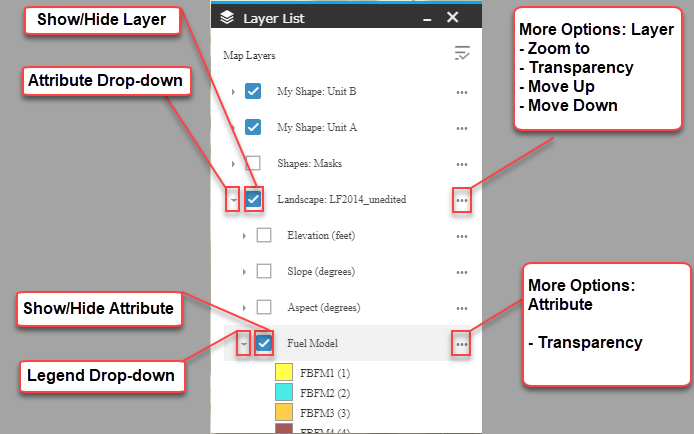
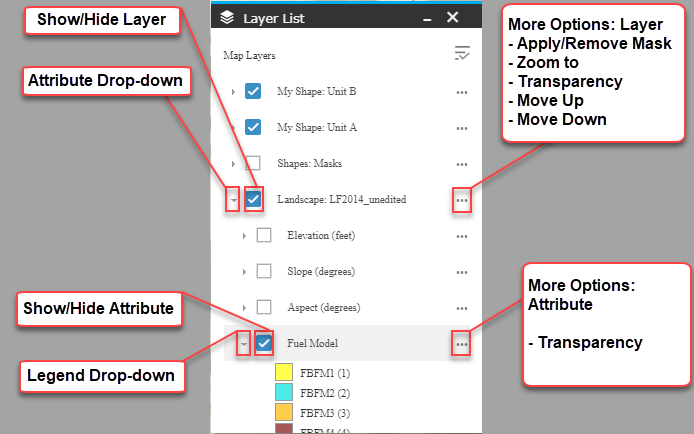
updates lbp about and lcp pages

Changed region(s): [[0.696, 0.0, 0.9986, 0.3594]]

diff --git a/Content/20-Models/LBP/About.htm b/Content/20-Models/LBP/About.htm
@@ -5,14 +5,15 @@
     </head>
     <body>
         <h1>About Landscape Burn Probability<MadCap:snippetText src="../../Resources/Snippets/Development.flsnp" /> </h1>
-        <p class="comment" MadCap:conditions="General.Exclude">LAST UPDATED 05-02-2019 1438</p>
+        <p class="comment" MadCap:conditions="General.Exclude">LAST UPDATED 05-15-2019 1401</p>
         <div class="notificationComingSoon">
             <p>
-                <MadCap:conditionalText MadCap:conditions="General.Prod ONLY"><b>April 2019 - Landscape Burn Probability is coming soon, it is not yet available in IFTDSS. </b> LBP will be the first in a series of version updates in 2019 that will conclude with a framework to conduct a full <a href="../../30-Tasks/QWFRA/RiskAssessment.htm" target="_blank">Quantitative Wildland Fire Risk Assessment</a>.</MadCap:conditionalText>
-                <MadCap:conditionalText MadCap:conditions="General.QA ONLY"> IFTDSS Landscape Burn Probability is an independent model in Playground. It is the first in a series of version updates in 2019 that will conclude with a framework to conduct a full <a href="../../30-Tasks/QWFRA/RiskAssessment.htm" target="_blank">Quantitative Wildland Fire Risk Assessment</a>.</MadCap:conditionalText>
+                <MadCap:conditionalText MadCap:conditions="General.Prod ONLY"><b>April 2019 - Landscape Burn Probability is coming soon, it is not yet available in IFTDSS. </b> LBP will be the first in a series of version updates in 2019 that will conclude with a framework to conduct a full <a href="../../30-Tasks/QWFRA/QWFRAAbout.htm" target="_blank">Quantitative Wildland Fire Risk Assessment</a>.</MadCap:conditionalText>
+                <MadCap:conditionalText MadCap:conditions="General.QA ONLY"> IFTDSS Landscape Burn Probability is an independent model in Playground. The model is the foundation of the <a href="../../30-Tasks/QWFRA/QWFRAAbout.htm" target="_blank">Quantitative Wildfire Risk Assessment</a> process (<a href="../../41-References/Citations.htm#Scott_etal_2013" target="_blank">Scott and others 2013</a>) that will be released incrementally throughout 2019. </MadCap:conditionalText>
             </p>
         </div>
-        <p>Landscape Burn Probability (LBP) quantifies the likelihood of fire occurring and the intensity at which fire occurs, it is part of the wildfire risk assessment process (<a href="../../41-References/Citations.htm#Scott_etal_2013" target="_blank">Scott and others 2013</a>). Outputs can be utilized as an independent product or be combined with information on the fire susceptibility of resources and assets to perform a more thorough integrated hazard or quantitative wildfire risk assessment. IFTDSS <a href="Out/Overview.htm" target="_blank">LBP model outputs</a> include burn probability, conditional flame length, and integrated hazard.</p>
+        <p>Landscape Burn Probability (LBP) quantifies the relative likelihood and intensity of a fire occurring under a fixed set of weather and fuel moisture conditions. Outputs include burn probability, conditional flame length and integrated hazard.  Outputs can be utilized as an independent product or be combined with information on the fire susceptibility of highly valued resources and assets.</p>
+        <p>The LBP model is not as widely known as the more common fire spread models so it may be new to you; please read the <a href="RunConsiderations.htm" target="_blank">Modeling Considerations</a> section to better understand how to use and apply this model to your work.</p>
         <p>
             <img src="../../Resources/Images/Models/LBP/Integrated_Hazard_diagram.png" class="border" />
         </p>
@@ -22,17 +23,17 @@
             </MadCap:dropDownHead>
             <MadCap:dropDownBody>
                 <h2>Burn Probability</h2>
-                <p>Quantifies the likelihood of a fire occurring under a fixed set of weather and fuel moisture conditions.</p>
+                <p><a href="Out/BurnProb.htm" target="_blank">Burn Probability</a> quantifies the likelihood of a fire occurring under a fixed set of weather and fuel moisture conditions.</p>
                 <p>
                     <img src="../../Resources/Images/Models/LBP/AboutLBP_LBP.png" class="border" />
                 </p>
                 <h2>Conditional Flame Length</h2>
-                <p>An estimate of the average flame length for all the fires that burn a given point on the landscape under a fixed set of weather and fuel moisture conditions.</p>
+                <p><a href="Out/ConditionalFL.htm" target="_blank">Conditional Flame Length</a> is an estimate of the average flame length for all the fires that burn a given point on the landscape under a fixed set of weather and fuel moisture conditions.</p>
                 <p src="../../Resources/Images/Models/LBP/AboutLBP_CFL.png">
                     <img src="../../Resources/Images/Models/LBP/AboutLBP_CFL.png" class="border" />
                 </p>
                 <h2>Integrated Hazard</h2>
-                <p>Combines two LBP model outputs—burn probability and conditional flame length—into a single characteristic that can be mapped.</p>
+                <p><a href="Out/IntHazard.htm" target="_blank">Integrated Hazard</a> combines two of the  LBP model outputs—burn probability and conditional flame length—into a single characteristic that can be mapped. In IFTDSS, we use the matrix below to map integrated hazard.</p>
                 <p>
                     <img src="../../Resources/Images/Models/LBP/IH_example_w_table.png" alt="integrated hazard in Map Studio" class="border" />
                 </p>
@@ -43,8 +44,10 @@
                 <MadCap:dropDownHotspot>Modeling Landscape Burn Probability versus Landscape Fire Behavior</MadCap:dropDownHotspot>
             </MadCap:dropDownHead>
             <MadCap:dropDownBody>
-                <p>Landscape Burn Probability is different from the Landscape Fire Behavior model founds elsewhere in IFTDSS. Here is a brief outline of those differences, highlight in more detail in a <a href="LBPvLFB.htm" target="_blank">separate topic page</a>:</p>
-                <p>Whether you choose to run Landscape Burn Probability or Landscape Fire Behavior will depend upon the questions you are trying to answer. As sown in the table below, some questions are better addressed by one model, others are answered by both models.</p>
+                <div class="notificationNote">
+                    <p>This is brief summary of the larger <a href="LBPvLFB.htm" target="_blank">Fire Behavior Model Comparison</a> topic.</p>
+                </div>
+                <p>Whether you choose to run Landscape Burn Probability (LBP) or Landscape Fire Behavior (LFB) will depend upon the questions you are trying to answer. See the table below for examples of questions that can be answered by one or both of the models.</p>
                 <table style="width: 100%;mc-table-style: url('../../Resources/TableStylesheets/Standard.css');" class="TableStyle-Standard" cellspacing="3">
                     <col class="TableStyle-Standard-Column-Column1" style="width: 400px;" />
                     <col class="TableStyle-Standard-Column-Column1" />
@@ -56,32 +59,50 @@
                     </thead>
                     <tbody>
                         <tr class="TableStyle-Standard-Body-Body1">
-                            <td class="TableStyle-Standard-BodyE-Column1-Body1">Models head, flanking and backing fire</td>
-                            <td class="TableStyle-Standard-BodyD-Column1-Body1">Only models head fire</td>
+                            <td class="TableStyle-Standard-BodyE-Column1-Body1">Which areas on the landscape are more likely to burn than others?</td>
+                            <td class="TableStyle-Standard-BodyD-Column1-Body1">Which areas on the landscape are more likely to experience crown fire vs. surface fire?</td>
                         </tr>
                         <tr class="TableStyle-Standard-Body-Body2">
-                            <td class="TableStyle-Standard-BodyE-Column1-Body2">Fire spread is modeled across pixels based on Minimum Travel Time algorithm</td>
-                            <td class="TableStyle-Standard-BodyD-Column1-Body2">Fire behavior calculated independently for each pixel</td>
+                            <td class="TableStyle-Standard-BodyE-Column1-Body2">How likely is my ownership to burn as compared to likelihood on  immediately adjacent ownerships and inholdings?</td>
+                            <td class="TableStyle-Standard-BodyD-Column1-Body2">Which areas have fuels that result in the fastest spreading fires?</td>
                         </tr>
                         <tr class="TableStyle-Standard-Body-Body1">
-                            <td class="TableStyle-Standard-BodyE-Column1-Body1">probabilistic - randomness in ignitions and spotting means results may vary slightly given the same inputs.</td>
-                            <td class="TableStyle-Standard-BodyD-Column1-Body1">deterministic - same inputs will always yield the same outputs</td>
+                            <td class="TableStyle-Standard-BodyD-Column1-Body1" colspan="2">Which areas will burn with the highest intensity and severity?</td>
                         </tr>
                         <tr class="TableStyle-Standard-Body-Body2">
-                            <td class="TableStyle-Standard-BodyB-Column1-Body2">Outputs depend on the scale of the landscape</td>
-                            <td class="TableStyle-Standard-BodyA-Column1-Body2">Landscape scale does not change affect outputs.</td>
+                            <td class="TableStyle-Standard-BodyA-Column1-Body2" colspan="2">Which areas on this landscape would benefit from treatments with objectives of reducing fire intensity in areas that are most likely to burn?</td>
                         </tr>
                     </tbody>
                 </table>
                 <p>The two models also approach fire behavior modeling differently. Landscape Fire Behavior models head fire only and each pixel is assigned fire spread independently. This results in higher fire intensity. Landscape Burn Probability takes into account heading, backing and flanking fire, as well as the influence of neighboring pixels which can result in lower intensity.</p>
-                <p>The LBP model outputs differ from LFB model outputs in a number of ways:</p>
-                <ul>
-                    <li>LFB outputs are deterministic - the same set of inputs will produce the same set of outputs each time.</li>
-                    <li>LBP outputs are probabilistic - the calculations include some randomization for ignitions and spotting.</li>
-                    <li>LBP outputs are specifically classified to describe the relative frequency at which different portions of the landscape would burn under a given set of conditions.</li>
-                    <li>LBP outputs are relative only to the geographic extent of a particular analysis.</li>
-                    <li>LBP conditional flame length is the mean of the full spectrum of heading, backing, and flanking simulated fires run in the LBP calculation.  LFB flame length for a given pixel is always the same value based on a single head fire calculation.</li>
-                </ul>
+                <table style="width: 100%;mc-table-style: url('../../Resources/TableStylesheets/Standard.css');" class="TableStyle-Standard" cellspacing="3">
+                    <col class="TableStyle-Standard-Column-Column1" style="width: 400px;" />
+                    <col class="TableStyle-Standard-Column-Column1" />
+                    <thead>
+                        <tr class="TableStyle-Standard-Head-Header1">
+                            <td class="TableStyle-Standard-HeadE-Column1-Header1" style="font-weight: bold;">Landscape Burn Probability</td>
+                            <td class="TableStyle-Standard-HeadD-Column1-Header1" style="font-weight: bold;">Landscape Fire&#160;Behavior</td>
+                        </tr>
+                    </thead>
+                    <tbody>
+                        <tr class="TableStyle-Standard-Body-Body1">
+                            <td class="TableStyle-Standard-BodyE-Column1-Body1">Probabilistic - randomness in ignitions and spotting means results may vary slightly given the same inputs.</td>
+                            <td class="TableStyle-Standard-BodyD-Column1-Body1">Deterministic - the same inputs will always yield the same outputs.</td>
+                        </tr>
+                        <tr class="TableStyle-Standard-Body-Body2">
+                            <td class="TableStyle-Standard-BodyE-Column1-Body2">Outputs are relative to the geographic extent of the landscape, they are <a href="Out/Scale.htm" target="_blank">uniquely scaled for each analysis or Area of Interest</a>.</td>
+                            <td class="TableStyle-Standard-BodyD-Column1-Body2">Changing landscape scale or masking outputs to an Area of Interest does not change model outputs.</td>
+                        </tr>
+                        <tr class="TableStyle-Standard-Body-Body1">
+                            <td class="TableStyle-Standard-BodyE-Column1-Body1">Models head, flanking and backing fire.</td>
+                            <td class="TableStyle-Standard-BodyD-Column1-Body1">Only models head fire.</td>
+                        </tr>
+                        <tr class="TableStyle-Standard-Body-Body2">
+                            <td class="TableStyle-Standard-BodyB-Column1-Body2">Fire spread is modeled across pixels based on Minimum Travel Time algorithm.</td>
+                            <td class="TableStyle-Standard-BodyA-Column1-Body2">Fire behavior calculated independently for each pixel.</td>
+                        </tr>
+                    </tbody>
+                </table>
             </MadCap:dropDownBody>
         </MadCap:dropDown>
         <MadCap:dropDown>
@@ -89,36 +110,48 @@
                 <MadCap:dropDownHotspot>Why Model LBP</MadCap:dropDownHotspot>
             </MadCap:dropDownHead>
             <MadCap:dropDownBody>
-                <p>The LBP model is a tool that is available to help address a variety of fuels planning and wildland fire response questions. IFTDSS maps and summary reports for this model may be helpful in the decision making process for treatment type, location, and prioritization, when conducting NEPA or other analyses.</p>
-                <p>Landscape Burn Probability can help answer questions like:</p>
+                <p>The Landscape Burn Probability model is a tool that is available to help address a variety of fuels planning and wildland fire management questions. IFTDSS maps and summary reports for this model may be helpful in the decision making process for treatment type, location, and prioritization when conducting NEPA or other analyses.</p>
                 <ul>
+                    <li>Landscape Burn Probability can help answer questions like:</li>
                     <li>Which areas on the landscape are more likely to burn than others?</li>
                     <li>How likely is my ownership to burn as compared to immediately adjacent ownerships and inholdings?</li>
                     <li>Which areas will burn with the highest intensity?</li>
                     <li>Which areas on this landscape would benefit from treatments with objectives of reducing fire intensity in areas that are most likely to burn?</li>
                     <li>How do I decide which treatment area has a higher priority than another?</li>
                 </ul>
-                <h3>Example Fuel Treatment Prioritization: how to use the LBP Outputs to select one treatment area over another</h3>
-                <h4>Scenario</h4>
-                <p> Two treatment areas have been identified, but there are only enough funds to implement one of the two treatments this year. How can I use the LBP model to inform my decision on which treatment to implement?</p>
-                <h4>Step 1</h4>
-                <p>Identify your treatment area boundaries (Treatment A and Treatment B below)</p>
-                <h4>Step 2</h4>
-                <p>Run the LBP model:</p>
+                <h3>Example  - How to use LBP&#160;to Prioritize Treatment Location within Your&#160;Project&#160;Area</h3>
+                <p><b>Scenario:</b> You are working on a Community Wildfire Protection Planning team and are tasked with helping to determine where in your county the likelihood of fire burning is highest during elevated fire danger.  This is in an effort to prioritize where limited fuel reduction treatment funds should be allocated county wide.</p>
+                <p><b>Step 1:</b>  Create or upload a polygon representing your county and create a Landscape for your project area.</p>
+                <p>
+                    <img src="../../Resources/Images/Models/LBP/MN_LBP_example1.png" alt="two screen captures showing a county next to a lake on the left, and a landscape file for that county on the right" class="border" />
+                </p>
+                <p><b>Step 2:</b>  Run the Landscape Burn Probability model.</p>
                 <ul>
                     <li>Wind and fuel moisture inputs should represent a worst case weather scenario (90th percentile or greater).</li>
-                    <li>Simulation Time should represent the duration of the worst case burn period in hours.</li>
-                    <li>Spotting probability may be left at the default of 20% in many cases, however that value may be change if needed.</li>
+                    <li>Simulation Time should represent the duration of worst case burn period in hours.</li>
+                    <li>Spotting probability may be left at the default of 20% in many cases, however that value can be changed if needed.</li>
                 </ul>
-                <h4>Step 3</h4>
-                <p>View each of the outputs in relation to where each treatment area is located.</p>
-                <h4>Interpretation</h4>
+                <p><b>Step 3:</b>  Analyze outputs in the Map Studio and Reports and interpret. In this case:</p>
                 <ul>
-                    <li>Burn Probability (the relative likelihood that a fire will burn under a fixed set of weather and fuel moisture conditions) - Treatment A has a much lower burn probability (likelihood) of burning than treatment area B.</li>
-                    <li>Conditional Flame Length (mean flame length of all simulated fires) - There are places within Treatment Area B that have higher conditional flame lengths.</li>
-                    <li>Integrated Hazard (combination of conditional flame length and burn probability) - there are similarities between both treatments  - one does not necessarily stand out from the other.</li>
+                    <li>
+                        <p>Areas of highest Burn Probability are located in the center and southwest portion of the county.</p>
+                        <p>
+                            <img src="../../Resources/Images/Models/LBP/MN_example_BP.png" alt="red and orange burn probability colors concentrated in the center and southwest portions of the county indicate relatively higher burn probability in those locations. " class="border" />
+                        </p>
+                    </li>
+                    <li>
+                        <p>Average Conditional Flame Lengths are fairly high across the entire county in areas away from the shore of Lake Superior.</p>
+                        <p>
+                            <img src="../../Resources/Images/Models/LBP/MN_CFL_example.png" alt="high conditional flame lengths across the interior of the county displayed in red and orange." class="border" />
+                        </p>
+                    </li>
+                    <li>
+                        <p>When considering the likelihood of fire burning coupled with predicted intensity under extreme weather and fuel conditions, the areas in the central and southwest portion of the county seem to be the likely places to consider implementing fuel reduction treatments due because of elevated Integrated Hazard.</p>
+                        <p>
+                            <img src="../../Resources/Images/Models/LBP/MN_IH_example.png" alt="high integrated hazard shown in orange and red coloring in the center and southwest portions of the county." class="border" />
+                        </p>
+                    </li>
                 </ul>
-                <p>These outputs should be considered in conjunction with treatment objectives, fuel models/vegetation types within the treatment area, resource values, difficulty of implementation etc. to help determine which treatment should be the priority. In this case you may choose to implement Treatment B since the likelihood of a fire burning is higher and the other factors are similar. There may be many other factors to weigh in this decision so each situation will be unique. (see Quantitative Wildfire Risk Assessment info)</p>
             </MadCap:dropDownBody>
         </MadCap:dropDown>
         <MadCap:dropDown>

diff --git a/Content/20-Models/Resampling.htm b/Content/20-Models/Resampling.htm
@@ -4,40 +4,43 @@
         <link href="../Resources/TableStylesheets/Standard.css" rel="stylesheet" MadCap:stylesheetType="table" />
     </head>
     <body>
-        <h1>Resampling in IFTDSS</h1>
+        <h1>
+            <MadCap:keyword term="Resampling" />Resampling in IFTDSS</h1>
         <p>In IFTDSS, resampling is conducted to adjust the resolution of your landscape to allow it to successfully run in some modeling applications.</p>
         <h2>Why</h2>
         <p>Resampling is necessary in IFTDSS in order to meet the intensive computational needs of the models. If you run a model that requires resampling by IFTDSS, such as LBP, you will notice the resampled landscape is generated and made available even before the model starts running. In short, this is done to allow the model to run faster.</p>
-        <p>The resampled landscape is available in <span class="UIcomponent">My Workspac</span>e. This is beneficial for understanding the underlying fuels/vegetation relating to the predicted fire behavior on each pixel.</p>
+        <p>The resampled landscape is available in <span class="UIcomponent">My Workspace</span>. This is beneficial for understanding the underlying fuels/vegetation relating to the predicted fire behavior on each pixel.</p>
         <h2>When</h2>
         <p>Resampling only occurs for landscapes submitted for Landscape Burn Probability runs when the the landscape and the buffered area surrounding it exceeds 250,000 acres.</p>
         <table style="width: 100%;mc-table-style: url('../Resources/TableStylesheets/Standard.css');" class="TableStyle-Standard" cellspacing="3">
             <col class="TableStyle-Standard-Column-Column1" />
             <col class="TableStyle-Standard-Column-Column1" />
+            <thead>
+                <tr class="TableStyle-Standard-Head-Header1">
+                    <td class="TableStyle-Standard-HeadE-Column1-Header1" style="font-weight: bold;">Landscape Size (acres)</td>
+                    <td class="TableStyle-Standard-HeadD-Column1-Header1" style="font-weight: bold;">Resampled Resolution</td>
+                </tr>
+            </thead>
             <tbody>
                 <tr class="TableStyle-Standard-Body-Body1">
-                    <td class="TableStyle-Standard-BodyE-Column1-Body1" style="font-weight: bold;">Landscape Size (acres)</td>
-                    <td class="TableStyle-Standard-BodyD-Column1-Body1" style="font-weight: bold;">Resampled Resolution</td>
+                    <td class="TableStyle-Standard-BodyE-Column1-Body1">&lt;250,000</td>
+                    <td class="TableStyle-Standard-BodyD-Column1-Body1">30 meters</td>
                 </tr>
                 <tr class="TableStyle-Standard-Body-Body2">
-                    <td class="TableStyle-Standard-BodyE-Column1-Body2">&lt;250,000</td>
-                    <td class="TableStyle-Standard-BodyD-Column1-Body2">30 meters</td>
+                    <td class="TableStyle-Standard-BodyE-Column1-Body2">250,000 - &lt;1 million</td>
+                    <td class="TableStyle-Standard-BodyD-Column1-Body2">60 meters</td>
                 </tr>
                 <tr class="TableStyle-Standard-Body-Body1">
-                    <td class="TableStyle-Standard-BodyE-Column1-Body1">250,000 - &lt;1 million</td>
-                    <td class="TableStyle-Standard-BodyD-Column1-Body1">60 meters</td>
+                    <td class="TableStyle-Standard-BodyE-Column1-Body1">1 million - &lt;2.5 million</td>
+                    <td class="TableStyle-Standard-BodyD-Column1-Body1">90 meters</td>
                 </tr>
                 <tr class="TableStyle-Standard-Body-Body2">
-                    <td class="TableStyle-Standard-BodyE-Column1-Body2">1 million - &lt;2.5 million</td>
-                    <td class="TableStyle-Standard-BodyD-Column1-Body2">90 meters</td>
+                    <td class="TableStyle-Standard-BodyE-Column1-Body2">2.5 million - &lt;5 million</td>
+                    <td class="TableStyle-Standard-BodyD-Column1-Body2">120 meters</td>
                 </tr>
                 <tr class="TableStyle-Standard-Body-Body1">
-                    <td class="TableStyle-Standard-BodyE-Column1-Body1">2.5 million - &lt;5 million</td>
-                    <td class="TableStyle-Standard-BodyD-Column1-Body1">120 meters</td>
-                </tr>
-                <tr class="TableStyle-Standard-Body-Body2">
-                    <td class="TableStyle-Standard-BodyB-Column1-Body2">&gt; 5 million</td>
-                    <td class="TableStyle-Standard-BodyA-Column1-Body2">150 meters</td>
+                    <td class="TableStyle-Standard-BodyB-Column1-Body1">&gt; 5 million</td>
+                    <td class="TableStyle-Standard-BodyA-Column1-Body1">150 meters</td>
                 </tr>
             </tbody>
         </table>
@@ -71,8 +74,6 @@
         <p>Below is an example of how resampling from 30 m to 60m resolution works. The red boxes are the outline of the new cell area. Because there is not a center cell in the new landscape, the upper left hand cell from the midpoint is used to create the resampled landscape.</p>
         <p>
             <img src="../Resources/Images/Models/LBP/resampling_ex_30_60.png" alt="left, 30 m raster grid overlaid with 60 m lines, right, 60 meter rasters grid" class="border" />
-        </p>
-        <p><b>Comments may be made in Google Directly at: </b><a href="https://docs.google.com/document/d/1YpKf3FvSAnzyQfc34E2oXcLjTqiY2x1_fWlKyRNOZRY/edit?usp=sharing" target="_blank" style="font-weight: bold;">https://docs.google.com/document/d/1YpKf3FvSAnzyQfc34E2oXcLjTqiY2x1_fWlKyRNOZRY/edit?usp=sharing</a>
         </p>
     </body>
 </html>

diff --git a/Content/20-Models/LBP/In/LandscapeLBP.htm b/Content/20-Models/LBP/In/LandscapeLBP.htm
@@ -7,18 +7,12 @@
         <div class="notificationNote">
             <p>When choosing a landscape for LBP, only those landscapes with a buffer and unaltered resolution are available from the drop-down menu. (Landscapes with the suffix “NB” or “Xm” will not run with LBP).</p>
         </div>
-        <p><span class="Emphasis">Avoid comparing outputs across analyses.</span>  Use a landscape that includes the entire area for which you may want to compare results. In most cases this would be a project area boundary but in some cases could be larger to encompass an entire ownership area (district or park).</p>
-        <h2>Influence of Landscape Features and Wind</h2>
-        <p>Inputs such as wind direction or landscape features may affect outputs in unusual ways, such as producing areas with high conditional flame lengths but low burn probabilities. Causes for this can include fuels that are located in difficult locations for fire to spread to, such as highly flammable but patchy fuels. Some examples of this are high elevation timber pockets, or shrub islands surrounded by non-burnable fuels (pictured below).</p>
-        <p>
-            <img src="../../../Resources/Images/Models/LBP/fire_barriers.png" alt="patches of fuels separated by water on the left image, and a wet meadow in the right image" class="border">
-            </img>
-        </p>
-        <p>The interaction of wind with landscape features can also contribute to low burn probabilities in seemingly volatile fuels, such as in cases where there are non-burnable or slow-spreading upwind. A visual example of this is displayed below. The two burn probability outputs were generated with identical inputs with the exception of wind direction. The first output was run with a Southeast wind and the second with a Northwest wind.  You can see in the example with NW Wind, that the burnable area on the east end of the lake was sheltered by the water and did not burn, whereas it burned in the same scenario under SE winds.</p>
-        <p>
-            <img src="../../../Resources/Images/Models/LBP/LFB_LBP_compare_3.png" alt="in the landscape with SE winds most of the area burned, in the landscape with NW winds, there are patches of unburned area" class="border">
-            </img>
-        </p>
-        <p>There are also scenarios that may be associated with high burn probabilities and low conditional flame length. These can include continuous grass or shrub fuels especially when wind and moisture inputs conducive to rapid spread.</p>
+        <h2>Choosing A Landscape Extent</h2>
+        <p> Choose a Landscape size that includes the entire area for which you may want to compare the results of a single analysis. In most cases this would be a project area boundary but in some cases could be larger to encompass an entire ownership area (district or park).</p>
+        <h2>Outputs are uniquely scaled for each analysis or Area of Interest</h2>
+        <p>The most important thing to remember when using burn probability outputs is that they are <span class="Emphasis">relative within the landscape or area of interest</span>.  Outputs must be viewed within the context of the landscape they are generated in. For example, a red pixel in one analysis still may be a much lower burn probability than a yellow or blue pixel in another analysis with a different landscape, different weather, or different fuel moisture inputs.  You cannot compare two landscapes that have had burn probably run on them individually, each case is unique.</p>
+        <div class="notificationImportant">
+            <p>Burn Probability outputs cannot be compared between landscapes.  The model outputs are scaled to show relative distribution within each specific analysis landscape.</p>
+        </div>
     </body>
 </html>

diff --git a/Content/30-Tasks/QWFRA/QWFRAAbout.htm b/Content/30-Tasks/QWFRA/QWFRAAbout.htm
@@ -4,7 +4,7 @@
     </head>
     <body>
         <h1>About Quantitative Wildland Fire Risk Assessment (QWFRA) [<b style="color: #ff0000;">UNDER DEVELOPMENT</b>]</h1>
-        <p class="comment" MadCap:conditions="General.Exclude">LAST UPDATED 05-02-2019 1414</p>
+        <p class="comment" MadCap:conditions="General.Exclude">LAST UPDATED 05-14-2019 1520</p>
         <p>Quantitative Wildland Fire Risk Assessment (QWFRA) describes the process of modeling fire behavior, defining highly valued resources and assets (HVRAs) and their response to fire on your landscape, and assessing benefits and threats to these resources. This process of identifying HVRAs and characterizing threats and benefits from fire can be helpful to land and fire managers as they locate and plan fuel treatments, monitoring programs, and other activities on the landscape.</p>
         <div class="notificationNote">
             <p><b>Terms to Know:</b>
@@ -23,7 +23,7 @@
         </p>
         <h2>Quantitative Wildland Fire Risk Assessment in IFTDSS</h2>
         <div class="notificationComingSoon">
-            <p>This section will be continually updated as the Development Team releases QWFRA functional.</p>
+            <p>This section will be continually updated as the Development Team releases QWFRA functionality.</p>
         </div>
         <p>QWFRA is a collection of several actions; fire modeling, mapping and characterizing values, comparisons, etc. Because each of these can be useful on its own, as well as part of a larger assess, the Development Team has chosen to phase QWFRA into IFTDSS throughout 2019 rather than waiting longer and releasing everything at once. Below is short list of current and upcoming IFTDSS versions and the capabilities that will be released with them:</p>
         <ul>
@@ -31,6 +31,9 @@
             <li class="comingsoon"><b>Version 3.2.1</b> <u>Map Values</u></li>
             <li class="comingsoon"><b>Version 3.2.2</b> <u>Quantitative Wildfire Risk Assessment</u></li>
             <li class="comingsoon"><b>Version 3.2.3</b> <u>Compare Exposure or Risk</u></li>
+            <li>
+                <img src="../../Resources/Images/Models/LBP/timelineQWFRA.png" alt="timeline showing four phases of QWFRA releases, versions 3.2.0-3.2.3." class="border" />
+            </li>
         </ul>
         <h2>Additional Resources to learn about QWFRA</h2>
         <p><a href="https://www.fs.fed.us/rmrs/groups/wildfire-risk-management-science-team" target="_blank">USDA Wildfire Risk Management Science Team website</a>: Several risk publications as well as projects and tools.</p>

diff --git a/Content/10-MapStudio/Functions/LayerList.htm b/Content/10-MapStudio/Functions/LayerList.htm
@@ -47,6 +47,7 @@
                 <p>
                     <img src="../../Resources/Images/ButtonsGeneral/moreoptions.png" alt="more options" class="iftbutton" /> The <span class="UIcomponent">More Options</span> button to the right of the layer allows you to:</p>
                 <ul>
+                    <li>Apply (or remove) a mask, this will display your layer only within an area of interest you specify.</li>
                     <li>Zoom to the layer on the map.</li>
                     <li>Adjust the transparency of the layer.</li>
                     <li>Move the layer up or down in Layer List, and on the map. However, there are two limitations to this capability:<ul><li>Shapes and shapefiles will always appear over raster data such as landscapes and fire behavior outputs.</li><li>Grouped layers can be moved up or down, but their attributes cannot.</li></ul></li>

diff --git a/Content/10-Cycle/StrategicPlanningAbout.htm b/Content/10-Cycle/StrategicPlanningAbout.htm
@@ -9,7 +9,7 @@
         <ul>
             <li style="font-weight: bold;"><a href="../30-Tasks/DevTrtAlts/TrtmtAltsCompareLndscp.htm" title="Jump to Develop Treatment Alternatives" alt="Jump to Develop Treatment Alternatives" target="_blank">Develop Treatment Alternatives</a>
             </li>
-            <li style="font-weight: bold;"><a href="../30-Tasks/QWFRA/RiskAssessment.htm" target="_blank">Quantitative Risk Assessment [<span style="color: #ff0000;">UNDER&#160;DEVELOPMENT</span>]</a>
+            <li style="font-weight: bold;"><a href="../30-Tasks/QWFRA/QWFRAAbout.htm" target="_blank">Quantitative Risk Assessment [<span style="color: #ff0000;">UNDER&#160;DEVELOPMENT</span>]</a>
             </li>
             <li class="comingsoon">Prioritize Treatments</li>
         </ul>
